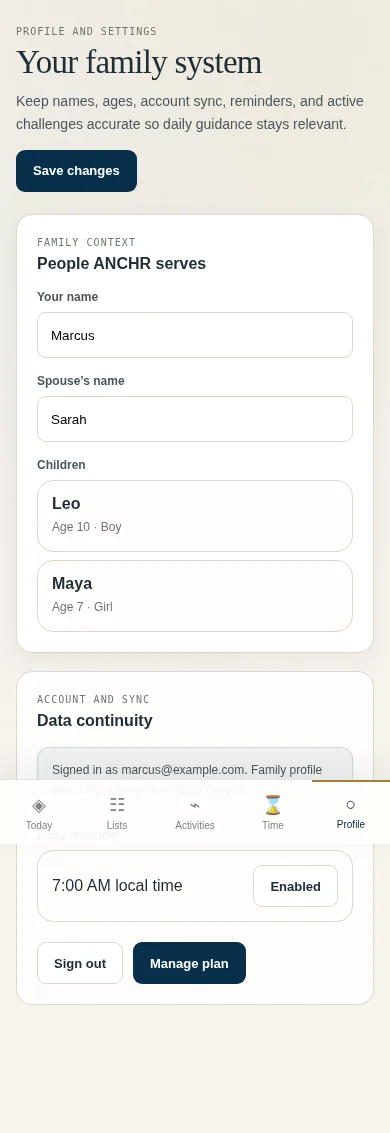
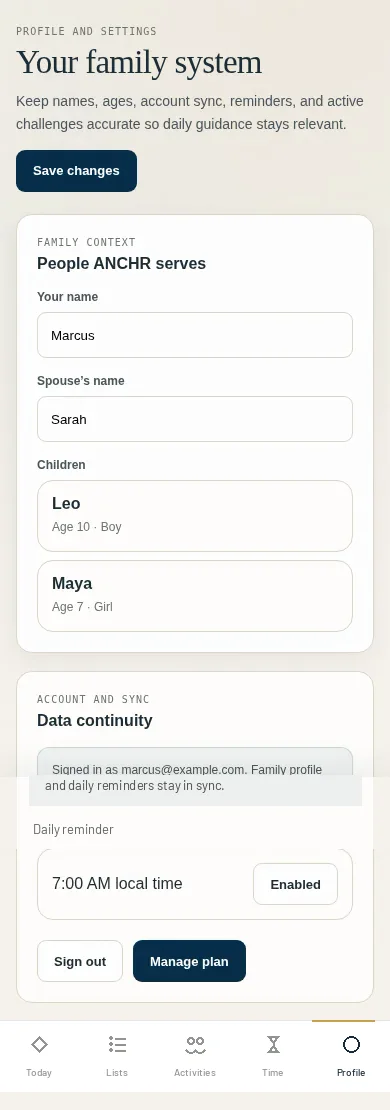
Fix Family context product-tour tab chrome and profile screenshot.
The profile capture baked a fixed mobile nav over Data continuity. Recompose the marketing screenshot so account content is readable and the nav sits at the bottom, and tighten the Family context tab/panel framing so it aligns with the other tour tabs.

diff --git a/assets/styles.css b/assets/styles.css
@@ -16,7 +16,7 @@ footer{padding-top:40px;padding-bottom:24px}.footer-top{display:flex;align-items
 /* Current public product, journal and legal routes. */
 .container{width:min(1200px,calc(100% - var(--gutter)*2));margin-inline:auto}.content-container{width:min(760px,calc(100% - var(--gutter)*2));margin-inline:auto}.lede{font-size:1.0625rem;color:var(--muted);line-height:1.7}.display{font-family:var(--display);font-weight:500}.heading-lg{font-size:clamp(2.5rem,4.5vw,3.8rem);letter-spacing:-.025em}.heading-md{font-size:clamp(2.3rem,4vw,3.5rem);letter-spacing:-.025em}.section--surface{background:var(--surface)}.section--compact{padding-block:56px}.text-link svg,.button svg{width:20px;height:20px;flex-shrink:0}.button--ghost,.button--secondary{background:transparent;color:var(--ink);border-color:var(--line)}.button--ghost:hover,.button--secondary:hover{background:var(--surface-raised)}
 .site-header{background:#f7f5ef;color:#172937;border-bottom:1px solid #deded6}.nav{min-height:100px;gap:28px}.brand-signature{width:210px;height:84px;object-fit:contain}.nav-links>a:not(.button){color:#475763;font-weight:500}.nav-links>a:not(.button):hover{color:#172937}.site-header .button{background:#172937;border-color:#172937;color:#f5f1e9}.site-header .button:hover{background:#2b4150}.site-header .menu-toggle{border-color:#a6afad;color:#172937}.site-header :focus-visible,.site-footer :focus-visible{outline-color:#8c681e}.hero-copy{padding-block:32px}.hero-visual{aspect-ratio:.98}.hero-visual figcaption{bottom:36px}.hero-detail{max-width:425px}
-#product>.container>.product-tour__header{display:grid;grid-template-columns:1.2fr 1fr;align-items:end;gap:64px;margin-bottom:40px}#product .section-heading{display:block;margin:0}#product .lede{max-width:440px;justify-self:end}#product .heading-lg{font-size:clamp(2.5rem,4.2vw,3.65rem)}.product-tour__layout{display:grid;gap:28px}.product-tabs{display:grid;grid-template-columns:repeat(4,minmax(0,1fr));gap:0;border-bottom:1px solid var(--line)}.product-tab{display:flex;flex-direction:column;gap:8px;padding:20px 24px;text-align:left;border:0;border-bottom:2px solid transparent;background:none;color:var(--muted);min-height:108px}.product-tab:hover{background:var(--surface)}.product-tab[aria-selected=true]{background:var(--surface);border-bottom-color:var(--gold);color:var(--ink)}.product-tab__label{font-size:1rem;font-weight:500}.product-tab[aria-selected=true] .product-tab__label{color:var(--gold)}.product-tab__copy{font-size:.875rem;line-height:1.55;max-width:240px}.product-stage{min-width:0}.product-panel__frame{display:grid;place-items:center;border:1px solid var(--line);background:#f5f3ee;padding:24px;border-radius:8px;min-height:360px}.product-panel__frame picture{display:block;width:100%}.product-panel__frame img{display:block;width:100%;height:auto;max-height:630px;object-fit:contain;object-position:top center;margin-inline:auto}.product-panel--portrait .product-panel__frame img{width:auto;max-width:100%;height:auto;max-height:630px}.product-panel__caption{display:flex;align-items:flex-start;justify-content:space-between;gap:32px;padding:24px 0 0}.product-panel__caption h3{font-family:var(--font);font-size:1.125rem;font-weight:500;line-height:1.4;margin-bottom:8px}.product-panel__caption p{color:var(--muted);font-size:1rem;max-width:700px}.actual-label{font-size:.75rem;color:var(--muted);white-space:nowrap;padding-top:3px}.product-panel:focus-visible{outline:3px solid var(--gold);outline-offset:8px}
+#product>.container>.product-tour__header{display:grid;grid-template-columns:1.2fr 1fr;align-items:end;gap:64px;margin-bottom:40px}#product .section-heading{display:block;margin:0}#product .lede{max-width:440px;justify-self:end}#product .heading-lg{font-size:clamp(2.5rem,4.2vw,3.65rem)}.product-tour__layout{display:grid;gap:28px}.product-tabs{display:grid;grid-template-columns:repeat(4,minmax(0,1fr));gap:0;border-bottom:1px solid var(--line)}.product-tab{display:flex;flex-direction:column;align-items:flex-start;justify-content:flex-start;gap:8px;padding:20px 24px;text-align:left;border:0;border-bottom:2px solid transparent;background:none;color:var(--muted);min-height:108px;min-width:0}.product-tab:hover{background:var(--surface)}.product-tab[aria-selected=true]{background:var(--surface);border-bottom-color:var(--gold);color:var(--ink)}.product-tab:focus{outline:none}.product-tab:focus-visible{outline:none;box-shadow:inset 0 -2px 0 var(--gold)}.product-tab__label{font-size:1rem;font-weight:500;white-space:nowrap}.product-tab[aria-selected=true] .product-tab__label{color:var(--gold)}.product-tab__copy{font-size:.875rem;line-height:1.55;max-width:240px;display:-webkit-box;-webkit-line-clamp:2;-webkit-box-orient:vertical;overflow:hidden;min-height:2.7em}.product-stage{min-width:0}.product-panel__frame{display:grid;place-items:center;border:1px solid var(--line);background:#f5f3ee;padding:24px;border-radius:8px;min-height:360px}.product-panel__frame picture{display:block;width:100%}.product-panel__frame img{display:block;width:100%;height:auto;max-height:630px;object-fit:contain;object-position:top center;margin-inline:auto}.product-panel--portrait .product-panel__frame{width:min(100%,420px);margin-inline:auto;min-height:0;padding:20px}.product-panel--portrait .product-panel__frame img{width:100%;max-width:390px;height:auto;max-height:760px}.product-panel__caption{display:flex;align-items:flex-start;justify-content:space-between;gap:32px;padding:24px 0 0}.product-panel__caption h3{font-family:var(--font);font-size:1.125rem;font-weight:500;line-height:1.4;margin-bottom:8px}.product-panel__caption p{color:var(--muted);font-size:1rem;max-width:700px}.actual-label{font-size:.75rem;color:var(--muted);white-space:nowrap;padding-top:3px}.product-panel:focus-visible{outline:3px solid var(--gold);outline-offset:8px}
 .coach-layout{display:grid;grid-template-columns:1fr 1fr;gap:80px;align-items:center}.coach-card{background:var(--paper);color:var(--paper-ink);padding:32px;border-radius:var(--radius)}.coach-card__header{display:flex;align-items:center;justify-content:space-between;gap:16px;padding-bottom:24px;border-bottom:1px solid #d7dbd7}.coach-identity{display:flex;align-items:center;gap:12px}.coach-mark{display:grid;place-items:center;width:44px;height:48px;flex-shrink:0}.coach-mark img{width:38px;height:44px;object-fit:contain}.coach-identity>span:last-child{display:flex;flex-direction:column;gap:2px}.coach-identity strong{font-size:1rem;font-weight:600}.coach-identity>span>span{font-size:.8125rem;color:var(--paper-muted)}.status{font-size:.75rem;border:1px solid #bcc6bd;padding:3px 8px;border-radius:4px;color:var(--paper-muted)}.chat{display:flex;flex-direction:column;gap:16px;padding-block:24px}.chat-bubble{padding:16px;border-radius:4px;font-size:1rem;line-height:1.6;max-width:91%;background:#e3e8e2}.chat-bubble--user{align-self:flex-end;background:#203744;color:#f5f3ee}.coach-plan{border-top:1px solid #d7dbd7;padding-top:20px}.coach-plan__header{display:flex;justify-content:space-between;gap:16px;font-size:.9375rem}.coach-plan__header strong{font-weight:600}.coach-plan__header span{font-size:.8125rem;color:var(--paper-muted)}.coach-plan ol{padding-left:20px;margin:16px 0 0}.coach-plan li{padding-left:4px;margin-top:12px;font-size:.9375rem;color:var(--paper-muted)}.coach-disclosure{font-size:.75rem;line-height:1.6;color:var(--paper-muted);margin-top:24px}.coach-copy>.lede{margin-top:24px}.context-list{list-style:none;padding:0;margin:32px 0}.context-list li{display:flex;gap:16px;padding:20px 0;border-top:1px solid var(--line)}.context-list svg{width:24px;height:24px;flex-shrink:0;color:var(--gold);margin-top:4px}.context-list>li>span{display:flex;flex-direction:column;gap:8px}.context-list strong{font-size:1rem;font-weight:500}.context-list>li>span>span{color:var(--muted);font-size:.9375rem}.coach-copy>.privacy-note{display:flex;align-items:flex-start;gap:12px;font-size:.875rem}.privacy-note>svg{width:18px;height:18px;flex-shrink:0;margin-top:3px}.privacy-note a{text-decoration:underline;text-underline-offset:3px}
 .journal-header{display:flex;align-items:end;justify-content:space-between;gap:32px;margin-bottom:40px}.journal-header .section-heading{display:block;margin:0}.journal-header>.text-link{flex-shrink:0}.journal-grid{display:grid;grid-template-columns:repeat(3,minmax(0,1fr));gap:32px}.journal-card{display:flex;flex-direction:column;align-items:flex-start;border-top:1px solid var(--line);padding:28px 0 0;gap:20px}.journal-card__meta{display:flex;justify-content:space-between;flex-wrap:wrap;gap:8px 16px;width:100%;color:var(--muted);font-size:.75rem}.journal-card__meta>span{color:var(--gold);text-transform:uppercase;letter-spacing:.08em}.journal-card h3{font-size:1.8rem;line-height:1.2;letter-spacing:-.015em;transition:color .18s}.journal-card:hover h3{color:var(--gold)}.journal-card>p{font-size:1rem;color:var(--muted)}.journal-card>.text-link{margin-top:auto;font-size:.875rem}
 .faq-layout{display:grid;grid-template-columns:.85fr 1.15fr;gap:80px}.faq-layout .section-heading{display:block;margin:0}.faq-intro{margin-top:24px}.faq-item{border-bottom:1px solid var(--line);padding:20px 0}.faq-item:first-child{padding-top:0}.faq-item summary{display:flex;align-items:center;justify-content:space-between;gap:24px;cursor:pointer;list-style:none;min-height:44px;font-size:1rem;font-weight:500}.faq-item summary::-webkit-details-marker{display:none}.faq-item summary:after{content:'+';color:var(--gold);font-size:1.4rem}.faq-item[open] summary:after{content:'−'}.faq-item__answer{padding:16px 32px 8px 0;color:var(--muted);font-size:1rem;line-height:1.7}.cta-wrap{padding-block:0 var(--space)}.cta-panel{padding:56px;display:grid;grid-template-columns:1fr auto;gap:64px;align-items:center;background:var(--surface);border:1px solid var(--line);border-radius:8px}.cta-panel__copy .lede{max-width:680px;margin-top:24px}.cta-panel__actions{display:flex;flex-direction:column;gap:12px;min-width:230px}.cta-panel__actions .button--ghost{background:transparent;color:var(--ink);border-color:var(--line)}.next-step{display:flex;flex-wrap:wrap;gap:12px 24px;list-style:none;padding:0;margin:28px 0 0;color:var(--muted);font-size:.875rem;counter-reset:step}.next-step li{counter-increment:step;display:flex;align-items:center;gap:8px}.next-step li:before{content:counter(step) '.';color:var(--gold)}
@@ -26,7 +26,7 @@ footer{padding-top:40px;padding-bottom:24px}.footer-top{display:flex;align-items
 @media(max-width:1100px){.nav{gap:20px}.nav-links{gap:20px}.brand-signature{width:190px;height:76px}.coach-layout,.faq-layout{gap:48px}.cta-panel{padding:40px;gap:40px}.footer-layout{gap:32px}.product-tab{padding:20px 16px}.product-tour__header{gap:40px!important}.journal-grid{gap:24px}.journal-card h3{font-size:1.65rem}}
 @media(max-width:1060px){.nav{flex-wrap:wrap;gap:0;min-height:92px}.js .menu-toggle{display:flex}.nav-links{display:flex;width:100%;flex-wrap:wrap;gap:8px 24px;padding-bottom:20px}.js .nav-links{display:none}.js .nav-links.is-open{display:flex}.nav-links .button{margin-left:auto}.nav-links>a:not(.button){padding-block:12px}.product-tab__copy{font-size:.875rem}}
 @media(max-width:900px){.coach-layout{grid-template-columns:1fr;gap:40px}.coach-copy{grid-row:1}.context-list{display:grid;grid-template-columns:repeat(3,1fr);gap:24px}.context-list li{flex-direction:column;gap:12px}.coach-card{max-width:680px;width:100%;margin-inline:auto}.journal-grid{grid-template-columns:1fr}.journal-card{display:grid;grid-template-columns:1.1fr 1fr;gap:16px 40px}.journal-card__meta{grid-column:1/-1}.journal-card>.text-link{grid-column:2;justify-self:start}.journal-card h3{font-size:2rem}.footer-layout{grid-template-columns:repeat(3,1fr);gap:32px}.footer-brand{grid-column:1/-1;display:flex;align-items:center;gap:48px}.footer-brand p{margin:0}.cta-panel{grid-template-columns:1fr;gap:32px}.cta-panel__actions{flex-direction:row;min-width:0}.cta-panel__actions .button{min-width:200px}#product>.container>.product-tour__header{gap:32px}.product-tab{min-height:120px}.product-panel__frame{min-height:260px}.faq-layout{grid-template-columns:1fr;gap:32px}}
-@media(max-width:760px){.nav{min-height:84px}.brand-signature{width:180px;height:72px}.hero-visual{aspect-ratio:1.35}.hero-visual figcaption{bottom:24px}.product-tabs{grid-template-columns:repeat(2,minmax(0,1fr));gap:8px;border:0}.product-tab{border:1px solid var(--line);border-radius:4px;min-height:100px;padding:16px}.product-tab[aria-selected=true]{border-color:var(--gold)}#product>.container>.product-tour__header{grid-template-columns:1fr;gap:24px}#product .lede{justify-self:start;max-width:580px}.product-panel__frame{padding:12px;min-height:180px}.product-panel__caption{display:block;padding-top:20px}.actual-label{display:block;margin-top:12px}.product-panel--portrait .product-panel__frame img{max-height:560px}.coach-card{padding:24px}.context-list{display:block}.context-list li{flex-direction:row;gap:16px}.journal-header{display:block}.journal-header>.text-link{margin-top:20px}.journal-card{display:flex;gap:16px;padding-top:24px}.journal-card h3{font-size:1.8rem}.cta-panel{padding:32px 24px}.cta-panel__actions{flex-direction:column}.cta-panel__actions .button{width:100%;min-width:0}.footer-layout{gap:24px}.footer-brand{display:block}.footer-brand p{margin-top:20px}.footer-column a{font-size:.875rem}.page-hero,.article-header,.legal-header{padding-block:48px 40px}.article-header .heading-lg,.page-hero .heading-lg{font-size:clamp(2.3rem,6vw,3rem);line-height:1.1}.article-deck{font-size:1.0625rem}.article-body,.legal-body{padding-block:40px 56px}.prose{font-size:1.0625rem;line-height:1.8}.prose h2{font-size:1.9rem}.prose h3{font-size:1.6rem}.article-cta{padding:24px}.blog-list__link{grid-template-columns:1fr;gap:16px}.blog-list__arrow{display:none}.blog-list h2{font-size:1.9rem}.site-footer .footer-bottom{gap:16px}.site-footer .footer-bottom>span:nth-child(2){display:none}}
+@media(max-width:760px){.nav{min-height:84px}.brand-signature{width:180px;height:72px}.hero-visual{aspect-ratio:1.35}.hero-visual figcaption{bottom:24px}.product-tabs{grid-template-columns:repeat(2,minmax(0,1fr));gap:8px;border:0}.product-tab{border:1px solid var(--line);border-radius:4px;min-height:100px;padding:16px}.product-tab[aria-selected=true]{border-color:var(--gold)}#product>.container>.product-tour__header{grid-template-columns:1fr;gap:24px}#product .lede{justify-self:start;max-width:580px}.product-panel__frame{padding:12px;min-height:180px}.product-panel__caption{display:block;padding-top:20px}.actual-label{display:block;margin-top:12px}.product-panel--portrait .product-panel__frame{padding:12px}.product-panel--portrait .product-panel__frame img{max-height:640px}.coach-card{padding:24px}.context-list{display:block}.context-list li{flex-direction:row;gap:16px}.journal-header{display:block}.journal-header>.text-link{margin-top:20px}.journal-card{display:flex;gap:16px;padding-top:24px}.journal-card h3{font-size:1.8rem}.cta-panel{padding:32px 24px}.cta-panel__actions{flex-direction:column}.cta-panel__actions .button{width:100%;min-width:0}.footer-layout{gap:24px}.footer-brand{display:block}.footer-brand p{margin-top:20px}.footer-column a{font-size:.875rem}.page-hero,.article-header,.legal-header{padding-block:48px 40px}.article-header .heading-lg,.page-hero .heading-lg{font-size:clamp(2.3rem,6vw,3rem);line-height:1.1}.article-deck{font-size:1.0625rem}.article-body,.legal-body{padding-block:40px 56px}.prose{font-size:1.0625rem;line-height:1.8}.prose h2{font-size:1.9rem}.prose h3{font-size:1.6rem}.article-cta{padding:24px}.blog-list__link{grid-template-columns:1fr;gap:16px}.blog-list__arrow{display:none}.blog-list h2{font-size:1.9rem}.site-footer .footer-bottom{gap:16px}.site-footer .footer-bottom>span:nth-child(2){display:none}}
 @media(max-width:440px){.nav{min-height:80px}.brand-signature{width:170px;height:68px}.nav-links{flex-direction:column;align-items:stretch;padding-top:8px}.nav-links .button{margin-left:0}.nav-links>a:not(.button){padding-block:8px}.hero .eyebrow{font-size:.75rem;letter-spacing:.08em}.product-tab{min-height:112px}.product-tab__label{font-size:.9375rem}.product-tab__copy{font-size:.875rem}.coach-card{padding:20px}.chat-bubble{max-width:94%;padding:14px;font-size:.9375rem}.coach-plan__header{gap:12px}.coach-plan__header>span{white-space:nowrap}.footer-layout{grid-template-columns:repeat(2,1fr);gap:28px 20px}.footer-brand{grid-column:1/-1}.footer-column h2{margin-top:0}.footer-column:last-child{grid-column:1/-1}.footer-column a{min-height:36px}.next-step{flex-direction:column;gap:12px}.journal-card h3{font-size:1.7rem}.faq-item__answer{padding-right:0}.article-header .heading-lg{font-size:2.4rem}.blog-list h2{font-size:1.75rem}}
 @media print{.site-header,.site-footer,.cta-wrap,.article-cta{display:none}.article-header,.legal-header{background:white;color:black}.prose,.article-deck{color:black}}
 /* Progressive enhancement: retain the product tour when scripts are unavailable. */

diff --git a/index.html b/index.html
@@ -13,7 +13,7 @@
     <link rel="icon" href="/favicon-32.png" type="image/png" sizes="32x32">
     <link rel="apple-touch-icon" href="/apple-touch-icon.png">
     <link rel="manifest" href="/manifest.webmanifest">
-    <link rel="stylesheet" href="/assets/styles.css?v=a4a4b1f7e7ce">
+    <link rel="stylesheet" href="/assets/styles.css?v=62bc80ef0a46">
 
     <meta property="og:type" content="website">
     <meta property="og:site_name" content="ANCHR">
@@ -134,7 +134,8 @@
         <section class="product-panel product-panel--portrait" id="panel-profile" role="tabpanel" aria-labelledby="tab-profile" data-product-panel="" hidden>
           <div class="product-panel__frame">
             <picture>
-              <img src="/assets/product-profile-lg.webp?v=7ea5bf814abc" loading="lazy" alt="ANCHR mobile profile screen for private family names, ages, reminders, account sync, and plan management" width="390" height="1133">
+              <source media="(max-width: 720px)" srcset="/assets/product-profile-sm.webp?v=ddc86044e5ef">
+              <img src="/assets/product-profile-lg.webp?v=ddc86044e5ef" loading="lazy" alt="ANCHR mobile profile screen for private family names, ages, reminders, account sync, and plan management" width="390" height="1110">
             </picture>
           </div>
           <div class="product-panel__caption">

diff --git a/404.html b/404.html
@@ -13,7 +13,7 @@
     <link rel="icon" href="/favicon-32.png" type="image/png" sizes="32x32">
     <link rel="apple-touch-icon" href="/apple-touch-icon.png">
     <link rel="manifest" href="/manifest.webmanifest">
-    <link rel="stylesheet" href="/assets/styles.css?v=a4a4b1f7e7ce">
+    <link rel="stylesheet" href="/assets/styles.css?v=62bc80ef0a46">
 
     <meta property="og:type" content="website">
     <meta property="og:site_name" content="ANCHR">

diff --git a/blog/936-saturdays-fatherhood/index.html b/blog/936-saturdays-fatherhood/index.html
@@ -13,7 +13,7 @@
     <link rel="icon" href="/favicon-32.png" type="image/png" sizes="32x32">
     <link rel="apple-touch-icon" href="/apple-touch-icon.png">
     <link rel="manifest" href="/manifest.webmanifest">
-    <link rel="stylesheet" href="/assets/styles.css?v=a4a4b1f7e7ce">
+    <link rel="stylesheet" href="/assets/styles.css?v=62bc80ef0a46">
 
     <meta property="og:type" content="article">
     <meta property="og:site_name" content="ANCHR">

diff --git a/blog/index.html b/blog/index.html
@@ -13,7 +13,7 @@
     <link rel="icon" href="/favicon-32.png" type="image/png" sizes="32x32">
     <link rel="apple-touch-icon" href="/apple-touch-icon.png">
     <link rel="manifest" href="/manifest.webmanifest">
-    <link rel="stylesheet" href="/assets/styles.css?v=a4a4b1f7e7ce">
+    <link rel="stylesheet" href="/assets/styles.css?v=62bc80ef0a46">
 
     <meta property="og:type" content="website">
     <meta property="og:site_name" content="ANCHR">

diff --git a/blog/provider-vs-leader-fatherhood/index.html b/blog/provider-vs-leader-fatherhood/index.html
@@ -13,7 +13,7 @@
     <link rel="icon" href="/favicon-32.png" type="image/png" sizes="32x32">
     <link rel="apple-touch-icon" href="/apple-touch-icon.png">
     <link rel="manifest" href="/manifest.webmanifest">
-    <link rel="stylesheet" href="/assets/styles.css?v=a4a4b1f7e7ce">
+    <link rel="stylesheet" href="/assets/styles.css?v=62bc80ef0a46">
 
     <meta property="og:type" content="article">
     <meta property="og:site_name" content="ANCHR">

diff --git a/blog/the-50-list/index.html b/blog/the-50-list/index.html
@@ -13,7 +13,7 @@
     <link rel="icon" href="/favicon-32.png" type="image/png" sizes="32x32">
     <link rel="apple-touch-icon" href="/apple-touch-icon.png">
     <link rel="manifest" href="/manifest.webmanifest">
-    <link rel="stylesheet" href="/assets/styles.css?v=a4a4b1f7e7ce">
+    <link rel="stylesheet" href="/assets/styles.css?v=62bc80ef0a46">
 
     <meta property="og:type" content="article">
     <meta property="og:site_name" content="ANCHR">

diff --git a/meaningful-time-before-18/index.html b/meaningful-time-before-18/index.html
@@ -13,7 +13,7 @@
     <link rel="icon" href="/favicon-32.png" type="image/png" sizes="32x32">
     <link rel="apple-touch-icon" href="/apple-touch-icon.png">
     <link rel="manifest" href="/manifest.webmanifest">
-    <link rel="stylesheet" href="/assets/styles.css?v=a4a4b1f7e7ce">
+    <link rel="stylesheet" href="/assets/styles.css?v=62bc80ef0a46">
 
     <meta property="og:type" content="article">
     <meta property="og:site_name" content="ANCHR">

diff --git a/privacy/index.html b/privacy/index.html
@@ -13,7 +13,7 @@
     <link rel="icon" href="/favicon-32.png" type="image/png" sizes="32x32">
     <link rel="apple-touch-icon" href="/apple-touch-icon.png">
     <link rel="manifest" href="/manifest.webmanifest">
-    <link rel="stylesheet" href="/assets/styles.css?v=a4a4b1f7e7ce">
+    <link rel="stylesheet" href="/assets/styles.css?v=62bc80ef0a46">
 
     <meta property="og:type" content="website">
     <meta property="og:site_name" content="ANCHR">

diff --git a/reconnect-at-home/index.html b/reconnect-at-home/index.html
@@ -13,7 +13,7 @@
     <link rel="icon" href="/favicon-32.png" type="image/png" sizes="32x32">
     <link rel="apple-touch-icon" href="/apple-touch-icon.png">
     <link rel="manifest" href="/manifest.webmanifest">
-    <link rel="stylesheet" href="/assets/styles.css?v=a4a4b1f7e7ce">
+    <link rel="stylesheet" href="/assets/styles.css?v=62bc80ef0a46">
 
     <meta property="og:type" content="article">
     <meta property="og:site_name" content="ANCHR">

diff --git a/show-up-after-work/index.html b/show-up-after-work/index.html
@@ -13,7 +13,7 @@
     <link rel="icon" href="/favicon-32.png" type="image/png" sizes="32x32">
     <link rel="apple-touch-icon" href="/apple-touch-icon.png">
     <link rel="manifest" href="/manifest.webmanifest">
-    <link rel="stylesheet" href="/assets/styles.css?v=a4a4b1f7e7ce">
+    <link rel="stylesheet" href="/assets/styles.css?v=62bc80ef0a46">
 
     <meta property="og:type" content="article">
     <meta property="og:site_name" content="ANCHR">

diff --git a/terms/index.html b/terms/index.html
@@ -13,7 +13,7 @@
     <link rel="icon" href="/favicon-32.png" type="image/png" sizes="32x32">
     <link rel="apple-touch-icon" href="/apple-touch-icon.png">
     <link rel="manifest" href="/manifest.webmanifest">
-    <link rel="stylesheet" href="/assets/styles.css?v=a4a4b1f7e7ce">
+    <link rel="stylesheet" href="/assets/styles.css?v=62bc80ef0a46">
 
     <meta property="og:type" content="website">
     <meta property="og:site_name" content="ANCHR">
